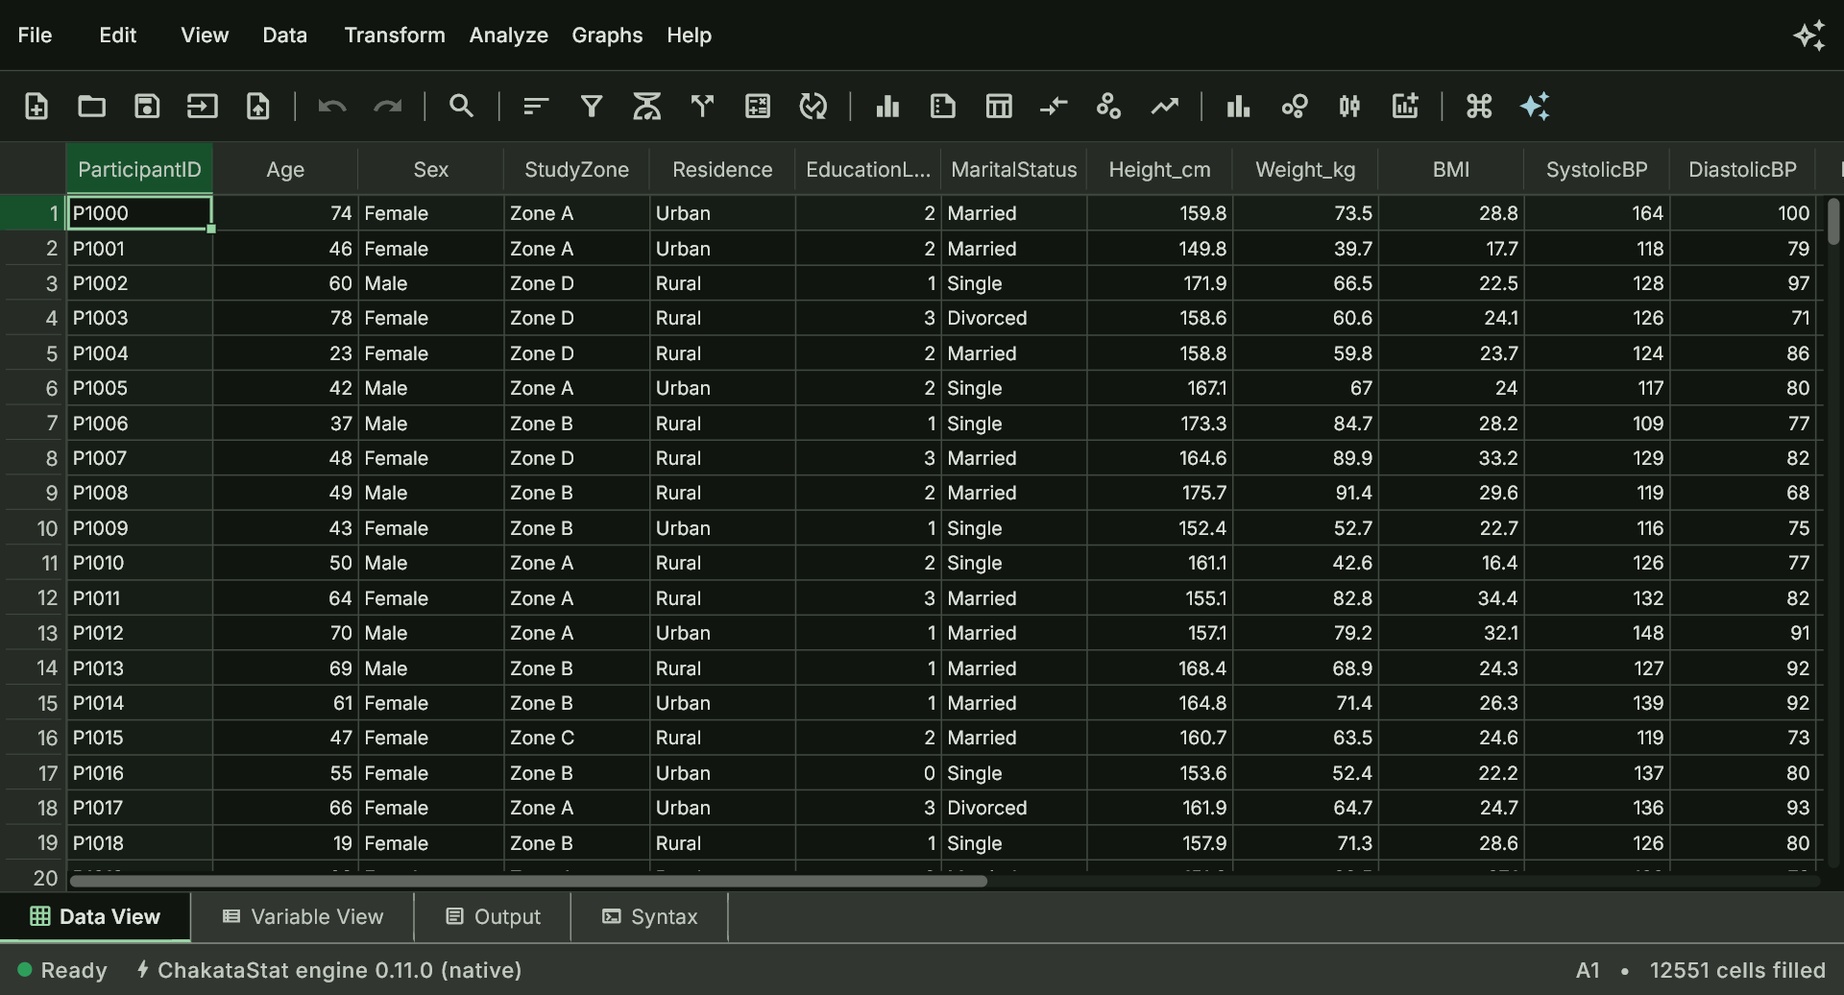
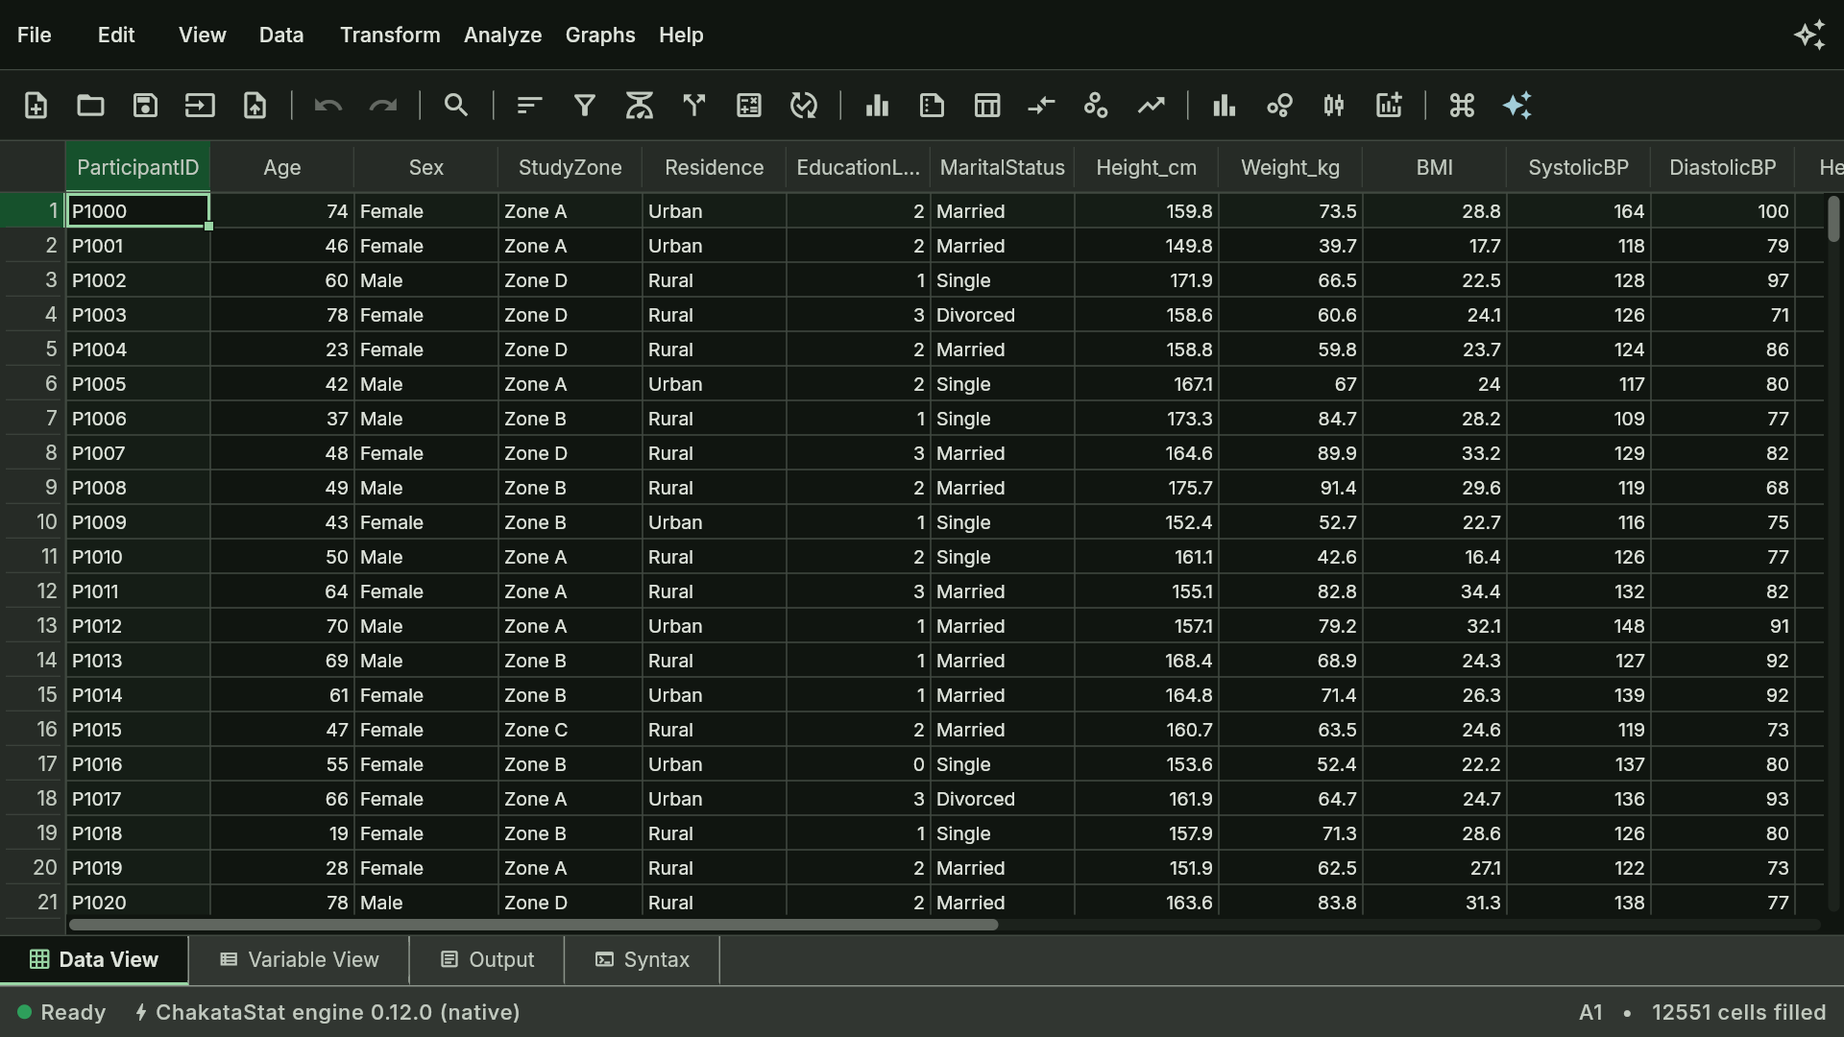
Refresh for 0.12.0: charts overhaul, violin card, 96 tools, PyPI, citations
The catalog line goes 95 → 96 (counted from tool_catalog.dart, not assumed) in
the JSON-LD, the feature card and the big analyze figure. The Graphs card now
names the 0.12.0 repertoire — violin plots, the correlation heatmap, regression
diagnostics, 100%-stacked bars — and the palette claim: every multi-series
chart on a fixed palette validated for colour-vision safety, light and dark.

The gallery's sixth card becomes the violin flagship scene (the dark-theme
message stays carried by the hero's picture swap); every screenshot asset is
recaptured at 0.12.0 on the new palette. Reproducibility now says it plainly:
pip install chakatastat — the client is on PyPI and its version tracks the
app.

The User Guide re-render picks up the release's pages: violin and the colour
section in Graphs, the heatmap and the three-plot diagnostics panel in
Correlation & Regression, the KDE conventions in Validation, and the real
install line in Reproducibility. Citations move to 0.12.0 on all four sites.

Changed region(s): [[0.0, 0.0309, 1.0, 0.9884], [0.9688, 0.0309, 1.0, 0.0618]]

diff --git a/index.html b/index.html
@@ -36,9 +36,9 @@
   "applicationCategory": "https://schema.org/BusinessApplication",
   "applicationSubCategory": "Statistical analysis",
   "operatingSystem": "Windows 10, Windows 11, Linux",
-  "softwareVersion": "0.11.0",
+  "softwareVersion": "0.12.0",
   "url": "https://chakatastat.app/",
-  "description": "A desktop application for statistical data analysis: a spreadsheet-style data editor backed by a native Rust engine, with 95 analysis tools, an AI assistant, an MCP server, a headless batch runner and full reproducibility.",
+  "description": "A desktop application for statistical data analysis: a spreadsheet-style data editor backed by a native Rust engine, with 96 analysis tools, an AI assistant, an MCP server, a headless batch runner and full reproducibility.",
   "image": "https://chakatastat.app/assets/og-image.jpg",
   "screenshot": [
     "https://chakatastat.app/assets/screenshots/data-editor.png",
@@ -57,12 +57,12 @@
   "downloadUrl": "https://apps.microsoft.com/detail/9MZNTHP2LF4S",
   "featureList": [
     "Spreadsheet-style data editor with a Variable View",
-    "95 analysis tools: regression, GLM, mixed models, survival, time series, Bayesian and nonparametric methods",
+    "96 analysis tools: regression, GLM, mixed models, survival, time series, Bayesian and nonparametric methods",
     "Confirmatory factor analysis and meta-analysis with forest and funnel plots",
-    "Charts: histogram, scatterplot, boxplot, line, bar, error bar and Q-Q",
+    "Charts: histogram, scatterplot, boxplot, violin, line, bar, error bar, Q-Q and correlation heatmap, on a colour-vision-validated palette",
     "Provider-neutral AI assistant",
     "MCP server and headless batch runner",
-    "Reproducible syntax, plus HTML, Markdown, LaTeX and Python export"
+    "Reproducible syntax, plus HTML, Markdown, LaTeX and Python export (pip install chakatastat)"
   ]
 }
   </script>
@@ -227,7 +227,7 @@
               <svg viewBox="0 0 24 24" fill="none" stroke="currentColor" stroke-width="1.6" stroke-linecap="round" stroke-linejoin="round"><path d="M4 20V10M10 20V4M16 20v-7M22 20H2"/></svg>
             </span>
             <h3>A broad Analyze program</h3>
-            <p>Descriptives, regression, GLM and mixed models, survival and time series, multivariate methods, confirmatory factor analysis, meta-analysis and Bayesian tests &mdash; 95 analysis tools in one catalog, each reporting the conventional effect sizes beside the test they describe.</p>
+            <p>Descriptives, regression, GLM and mixed models, survival and time series, multivariate methods, confirmatory factor analysis, meta-analysis and Bayesian tests &mdash; 96 analysis tools in one catalog, each reporting the conventional effect sizes beside the test they describe.</p>
           </article>
           <article class="feature-card" data-reveal>
             <span class="feature-icon" aria-hidden="true">
@@ -241,7 +241,7 @@
               <svg viewBox="0 0 24 24" fill="none" stroke="currentColor" stroke-width="1.6" stroke-linecap="round" stroke-linejoin="round"><path d="M3 17l5-6 4 3 5-8M3 21h18"/></svg>
             </span>
             <h3>Graphs</h3>
-            <p>Histograms, scatterplots, boxplots, line, bar, error-bar and Q-Q charts in a unified Chart Builder &mdash; plus scree plots, dendrograms, forest and funnel plots beside their analyses.</p>
+            <p>Histograms, scatterplots, boxplots, violin plots, line, bar (clustered, stacked or 100%-stacked), error-bar and Q-Q charts in a unified Chart Builder &mdash; plus a correlation heatmap, regression diagnostics, scree plots, dendrograms, forest and funnel plots beside their analyses. Every multi-series chart uses a fixed palette validated for colour-vision safety, in light and dark.</p>
           </article>
           <article class="feature-card feature-card--wide" data-reveal>
             <span class="feature-icon" aria-hidden="true">
@@ -255,7 +255,7 @@
               <svg viewBox="0 0 24 24" fill="none" stroke="currentColor" stroke-width="1.6" stroke-linecap="round" stroke-linejoin="round"><path d="M8.5 7.5L4 12l4.5 4.5M15.5 7.5L20 12l-4.5 4.5M13.5 4l-3 16"/></svg>
             </span>
             <h3>Reproducibility</h3>
-            <p>Every action emits an editable, re-runnable command. Export to HTML, Markdown, LaTeX or a Python script.</p>
+            <p>Every action emits an editable, re-runnable command. Export to HTML, Markdown, LaTeX &mdash; or a Python script for the client on PyPI: <code>pip install chakatastat</code>.</p>
           </article>
           <article class="feature-card feature-card--wide" data-reveal>
             <span class="feature-icon" aria-hidden="true">
@@ -401,10 +401,10 @@ ChakataStat --mcp health_study.csv</code></pre>
           <div class="shot-panel" role="tabpanel" id="shot-panel-dark" aria-labelledby="shot-tab-dark" tabindex="0" hidden>
             <figure class="screenshot-card">
               <button class="shot-trigger" type="button">
-                <img src="assets/screenshots/histogram-dark.png" alt="ChakataStat's output view in dark theme showing a histogram of systolic blood pressure" loading="lazy">
+                <img src="assets/screenshots/violin-plot.png" alt="A violin plot in ChakataStat: systolic blood pressure by study zone, four mirrored density silhouettes with quartile bars, each zone in its own palette colour" loading="lazy">
                 <span class="visually-hidden"> &mdash; enlarge</span>
               </button>
-              <figcaption>Every view, charts included, in light and dark themes.</figcaption>
+              <figcaption>New in 0.12.0: violin plots on a colour-vision-validated palette &mdash; the distribution shape a boxplot's five numbers can hide.</figcaption>
             </figure>
           </div>
         </div>
@@ -414,7 +414,7 @@ ChakataStat --mcp health_study.csv</code></pre>
     <section class="analyze" id="analyze">
       <div class="container analyze-inner">
         <div class="analyze-figure">
-          <p class="analyze-number">95</p>
+          <p class="analyze-number">96</p>
           <p class="analyze-caption">analysis tools, one catalog</p>
         </div>
         <div class="analyze-copy">
@@ -454,7 +454,7 @@ ChakataStat --mcp health_study.csv</code></pre>
           <a class="btn btn-primary btn-lg" href="https://snapcraft.io/chakatastat" data-platform="linux">Get it from the Snap Store</a>
           <span class="btn btn-disabled btn-lg" aria-disabled="true">macOS — coming soon</span>
         </div>
-        <p class="download-meta">Version 0.11.0 · free to use · no account needed</p>
+        <p class="download-meta">Version 0.12.0 · free to use · no account needed</p>
         <p class="download-note">
           Store installs are signed and update automatically. On Linux you
           can also grab the Debian/Ubuntu .deb from the
@@ -472,7 +472,7 @@ ChakataStat --mcp health_study.csv</code></pre>
         proprietary software — free to use, not open source.
       </p>
       <p class="footer-cite">
-        Cite: Amani, E. (2026). <em>ChakataStat</em> (Version 0.11.0)
+        Cite: Amani, E. (2026). <em>ChakataStat</em> (Version 0.12.0)
         [Computer software].
       </p>
       <p class="footer-legal">

diff --git a/docs/graphs/index.html b/docs/graphs/index.html
@@ -147,6 +147,20 @@ groups bars side by side (one color per cluster level, with a legend), or —
 with <strong>Stacked bars</strong> ticked — stacks those segments into one bar per level
 (part-to-whole). Value labels drive the category axis, so a <code>1/2</code> coded
 variable labelled <code>Male/Female</code> charts by its labels.</p>
+<p>With <strong>Stacked bars</strong> on, <strong>Show</strong> chooses what the stack means. <strong>Absolute
+values</strong> stacks the numbers themselves, so a taller bar is a bigger total.
+<strong>100% (composition)</strong> normalises every bar to fill the axis, so the totals are
+deliberately thrown away and only the <em>mix</em> is compared — the right choice when
+the categories are very different sizes and you want to ask &quot;what proportion&quot;,
+not &quot;how many&quot;. A clinic with 10 patients and one with 400 then sit side by
+side on equal terms.</p>
+<p>100% stacking needs every value to be zero or more, because a share of a total
+means nothing once the parts cancel. If the chart contains a negative it stacks
+absolute values instead and says so in its note.</p>
+<p><strong>Bar spacing</strong> sets how much of each category's width is left empty — drag it
+left for fatter bars that touch, right for thin ones. Leave it alone and the
+chart keeps its standard proportions; the setting is only recorded in the
+command once you move it.</p>
 <p><strong>Example.</strong> The mean <em>SystolicBP</em> by <em>SmokingStatus</em>, clustered by <em>Sex</em>.</p>
 <h3 id="error-bar">Error Bar</h3>
 <p><strong>Graphs → Error Bar…</strong>. The mean of a <strong>scale</strong> variable per level of a
@@ -182,12 +196,45 @@ re-runs even if the underlying palette rotation ever changes.</p>
 <p><strong>Graphs → Chart Builder…</strong> (<code>Ctrl+Shift+G</code>) is the general dialog: choose the
 chart type and assign variables to its roles. Use it when you want more control
 than the three quick dialogs give.</p>
+<p>The Builder also offers the one chart with no quick dialog of its own:</p>
+<h3 id="violin-plot">Violin Plot</h3>
+<p>A <strong>scale</strong> variable's distribution drawn as a mirrored density silhouette,
+optionally one violin per level of a <strong>category</strong> — with a quartile bar and a
+median dot inside each. Use it where a boxplot is not enough: a boxplot
+reduces a distribution to five numbers, so <strong>a two-humped (bimodal) group and
+an ordinary one can produce identical boxes</strong> — the violin's outline shows the
+humps.</p>
+<p>Two things worth knowing about how it is drawn:</p>
+<ul>
+<li>The smooth outline is a <strong>kernel density estimate</strong> (Gaussian kernel,
+Silverman's bandwidth — computed on the weighted case count when Weight
+Cases is on), validated against the reference implementation like every
+other statistic.</li>
+<li>Violin <strong>widths share one scale</strong>: the most concentrated group is the widest
+violin, and a group twice as concentrated is twice as wide. Some tools
+stretch every violin to the same width; ChakataStat deliberately does not,
+because that hides exactly the concentration differences the chart is for.</li>
+</ul>
+<p>A group with fewer than two distinct values has no density to draw; it keeps
+its quartile mark and the chart's note names it.</p>
+<p><strong>Example.</strong> <em>ReactionTime</em> by <em>Condition</em> — do the conditions differ in
+shape, not just in centre?</p>
 <h2 id="charts-attached-to-analyses">Charts attached to analyses</h2>
 <p>Some analyses can draw a chart built directly from their own result — look for a
 <strong>Plot…</strong> checkbox in the dialog. These include:</p>
 <ul>
 <li>the <strong>Kaplan-Meier</strong> survival curve (and cumulative-hazard curve), with an
 optional <strong>Show point markers</strong> checkbox at each step;</li>
+<li>the <strong>correlation heatmap</strong> from
+<a href="../analyze/correlation-and-regression/#bivariate">Correlate</a> (tick
+<strong>Plot heatmap</strong>): the coefficient matrix drawn as coloured cells, so the
+structure of a large matrix — a block of variables that move together, a
+lone unrelated one, a sign flip — is visible before you read a single
+number. The scale is <strong>diverging</strong>: one hue for negative, one for positive,
+and a neutral middle, so no relationship looks like nothing rather than
+like a middling one. It is pinned at −1…+1 rather than stretched to the
+strongest correlation present, so a weak matrix looks weak and two matrices
+can be compared;</li>
 <li>the <strong>ACF/PACF correlogram</strong> from Autocorrelation;</li>
 <li>the <strong>ARIMA forecast</strong> plot (observed, forecast and prediction band);</li>
 <li>the <strong>canonical discriminant</strong> scatter (optionally with a territorial map);</li>
@@ -203,6 +250,23 @@ last merges, with collapsed clusters sized in parentheses and a note saying
 so).</li>
 </ul>
 <p>See the relevant <a href="../analyze/">analysis pages</a> for each.</p>
+<h2 id="colors">Colors</h2>
+<p>A chart with <strong>one</strong> series is drawn in your theme's accent color, so it
+follows the appearance you picked in <a href="../settings/">Settings</a>.</p>
+<p>A chart with <strong>several</strong> series uses a fixed palette instead, and this is worth
+knowing about: the first group always gets the first color, the second group
+the second, and so on, <strong>whatever the chart is</strong>. Add a group, remove one, or
+filter your cases, and the groups that were already there keep the colors they
+had — so you can carry an identity from one chart to the next. The palette is
+chosen for readability rather than decoration: adjacent colors stay
+distinguishable with red-green color blindness, and they stay distinguishable
+in a black-and-white print, which matters if the chart is going into a paper.
+Light and dark themes use their own version of it.</p>
+<p>Past <strong>eight</strong> groups colors have to repeat, and the chart says so in its note
+line. When you see that, colour has stopped identifying a group on its own —
+group the categories, or split the chart, rather than trusting the legend.</p>
+<p>To override any of it, set the colors explicitly on the chart's command (the
+<code>colors</code> argument) — see <a href="../advanced/reproducibility/">Reproducibility</a>.</p>
 <h2 id="working-with-chart-output">Working with chart output</h2>
 <ul>
 <li>Charts appear as cards in the <strong>Output View</strong>, interleaved with tables in the

diff --git a/docs/analyze/correlation-and-regression/index.html b/docs/analyze/correlation-and-regression/index.html
@@ -99,10 +99,18 @@ variables and modelling an outcome from predictors.</p>
 ordinal) variables.</p>
 <p><strong>Dialog.</strong> Move two or more variables into <strong>Variables</strong>; choose the
 coefficient(s): <strong>Pearson</strong> (linear), <strong>Spearman</strong> or <strong>Kendall's tau-b</strong> (rank).
-The Options section sets <strong>one- vs two-tailed</strong> significance and the
-<strong>missing-data policy</strong> (pairwise default, or listwise).</p>
+The Options section sets <strong>one- vs two-tailed</strong> significance, the
+<strong>missing-data policy</strong> (pairwise default, or listwise) and whether to
+<strong>Plot heatmap</strong>.</p>
 <p><strong>Output.</strong> A correlation matrix of coefficients with significance and the N
 behind each cell.</p>
+<p>With <strong>Plot heatmap</strong> ticked, the coefficient matrix is also drawn as coloured
+cells on a diverging scale — one hue for negative, one for positive, neutral at
+zero — which is how you see the <em>shape</em> of a matrix too big to read cell by
+cell: a block of variables that move together, one that relates to nothing, a
+sign that flips. The scale is fixed at −1…+1, not stretched to the strongest
+correlation present, so a matrix of weak associations looks weak and two
+matrices can be compared. See <a href="../../graphs/">Graphs</a>.</p>
 <p><strong>Example.</strong> <em>BMI</em>, <em>SystolicBP</em>, <em>FastingGlucose_mmolL</em> — do they move together?</p>
 <h3 id="partial">Partial</h3>
 <p><strong>When.</strong> Measure the association between two variables <strong>controlling for</strong> one or
@@ -154,9 +162,13 @@ variables. Options include:</p>
 <li><strong>Robust standard errors</strong> (HC0/HC1/HC3 sandwich estimators);</li>
 <li><strong>Forward / backward stepwise</strong> variable selection;</li>
 <li><strong>casewise influence diagnostics</strong> — Cook's distance and leverage;</li>
-<li><strong>diagnostic plots</strong> — a Residuals vs Fitted scatter and a Normal Q-Q plot of
-the standardized residuals, the two pictures a linearity/homoscedasticity
-and normality check calls for;</li>
+<li><strong>diagnostic plots</strong> — the classic three-plot assumption panel: a
+<strong>Residuals vs Fitted</strong> scatter (a random band around zero supports
+linearity; a curve says the linear form is wrong), a <strong>Scale-Location</strong> plot
+(√|standardized residual| against fitted — a flat band supports constant
+error variance, a rising wedge is the variance-grows-with-the-mean
+signature), and a <strong>Normal Q-Q</strong> of the standardized residuals (points on
+the reference line support the normality behind the significance tests);</li>
 <li><strong>save</strong> predicted values and residuals back as new variables.</li>
 </ul>
 <p><strong>Output.</strong> The model summary (R², adjusted R², standard error), the ANOVA of the

diff --git a/docs/validation/index.html b/docs/validation/index.html
@@ -175,7 +175,7 @@ never drift the committed inputs out from under the committed references.</p>
 </tbody>
 </table></div>
 <h2 id="coverage">Coverage</h2>
-<p>191 statistics across 47 procedure families — essentially the full analytic
+<p>195 statistics across 48 procedure families — essentially the full analytic
 catalog. (These two numbers are <strong>asserted</strong>, not transcribed: a guard in
 <code>numerical_validation_test.dart</code>
 parses this very sentence and fails if it disagrees with
@@ -1092,6 +1092,26 @@ estimator — bounded at zero, iteration-capped with a hit cap reported in
 the output note; Q, its p and I² stay defined from the fixed-effect fit
 and are estimator-independent, so only τ², the random-effects pooling and
 the per-study random weights change with the <code>tau_method</code> choice.</li>
+<li><strong>Violin plot (kernel density)</strong> — four recorded conventions (0.12.0).
+(1) The bandwidth is <strong>Silverman's scaling rule as scipy implements it</strong>,
+<code>h = (3W/4)^(−1/5)·σ</code> with σ the ddof-1 standard deviation — deliberately
+<em>not</em> R <code>bw.nrd0</code>'s <code>0.9·min(σ, IQR/1.34)·n^(−1/5)</code> rule of thumb, so the
+unweighted comparison against
+<code>scipy.stats.gaussian_kde(bw_method='silverman')</code> is exact (the Rust unit
+tests pin scipy's own numbers to 1e-12, and the gate-4 ids pin them again
+end-to-end at 1e-9). (2) <strong>Weights are frequency weights</strong>, <code>W = Σw</code> in
+both the bandwidth and the variance, keeping the engine-wide <em>weight ≡
+replication</em> identity — scipy's own <code>weights=</code> parameter is an
+importance-weight convention (Kish effective N, reliability-weights
+variance) and is deliberately <strong>not</strong> matched; the weighted identity is
+asserted in <code>rust/src/analyze/graphs.rs</code>'s <code>violin_tests</code> rather than
+pinned here, since this suite runs unweighted. (3) The density curve is
+evaluated on a fixed <strong>96-point grid over [min − 3h, max + 3h]</strong> (R
+<code>density</code>'s <code>cut = 3</code> convention), and the gate-4 density ids name <em>grid
+rows</em>, not quantiles, so no quantile convention can drift between the
+sides. (4) A group with fewer than two distinct values (or W ≤ 1) has
+<strong>no density by design</strong> — its statistics row keeps null bandwidth and the
+table note names the group; the run never fails for it.</li>
 </ul>
 <h2 id="regenerating">Regenerating</h2>
 <p>The reference toolchain is needed only to <em>author</em> the values — CI just reads the

diff --git a/docs/advanced/reproducibility/index.html b/docs/advanced/reproducibility/index.html
@@ -139,10 +139,15 @@ geometry. For a single result, right-click its card and choose <strong>Export as
 CSV…</strong> to drop it straight into a spreadsheet (or use copy-to-clipboard).</p>
 <h2 id="exporting-a-session-as-python">Exporting a session as Python</h2>
 <p><strong>Export as Python…</strong> (from the syntax console) renders your recorded session as a
-runnable <strong>Python script</strong> for the ChakataStat Python client. The client (the
-<code>ChakataStat</code> Python package) drives a headless engine over MCP and exposes
-every analysis as a method:</p>
-<pre><code class="language-python">import ChakataStat as ig
+runnable <strong>Python script</strong> for the ChakataStat Python client — installable from
+PyPI:</p>
+<pre><code class="language-sh">pip install chakatastat
+</code></pre>
+<p>The client drives a headless engine over MCP and exposes every analysis as a
+method; it needs the ChakataStat app installed (it contains no statistics of
+its own), and its version tracks the app's, so install the client version
+matching your app:</p>
+<pre><code class="language-python">import chakatastat as ig
 
 ds = ig.open(&quot;health_study.ckd&quot;)     # spawns the headless engine
 ds.descriptives([&quot;Age&quot;, &quot;BMI&quot;, &quot;SystolicBP&quot;])

diff --git a/privacy-policy/index.html b/privacy-policy/index.html
@@ -170,7 +170,7 @@
         proprietary software — free to use, not open source.
       </p>
       <p class="footer-cite">
-        Cite: Amani, E. (2026). <em>ChakataStat</em> (Version 0.11.0)
+        Cite: Amani, E. (2026). <em>ChakataStat</em> (Version 0.12.0)
         [Computer software].
       </p>
     </div>

diff --git a/quick-start/index.html b/quick-start/index.html
@@ -172,7 +172,7 @@
         proprietary software — free to use, not open source.
       </p>
       <p class="footer-cite">
-        Cite: Amani, E. (2026). <em>ChakataStat</em> (Version 0.11.0)
+        Cite: Amani, E. (2026). <em>ChakataStat</em> (Version 0.12.0)
         [Computer software].
       </p>
     </div>
